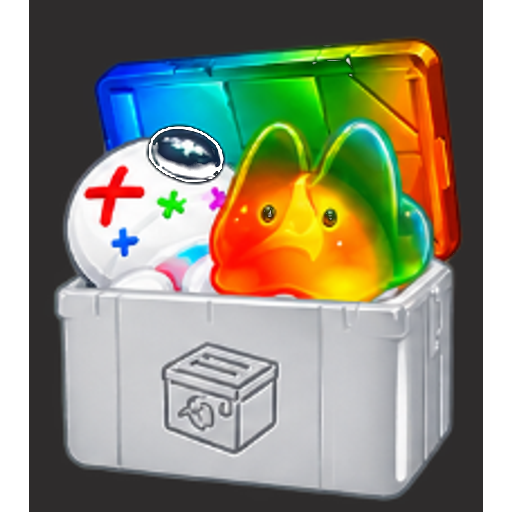
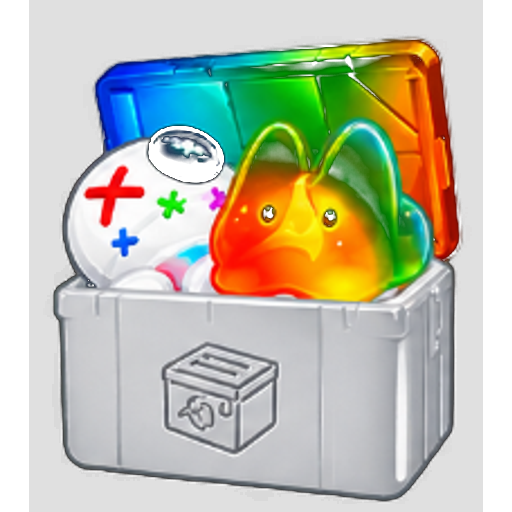
fix: stronger bg removal on case images, CSS background fix

diff --git a/split_cases.js b/split_cases.js
@@ -6,12 +6,11 @@ const path = require('path');
   const dir = path.join('C:\\Users\\PC\\Downloads', 'для кейсов');
   const files = fs.readdirSync(dir)
     .filter(f => f.endsWith('.png'))
-    .sort()
-    .slice(0, 8);
+    .sort();
   
   const ids = ['star', 'summer', 'rgb', 'regular', 'farm', 'flex', 'vision', 'fresh'];
   
-  for (let i = 0; i < 8; i++) {
+  for (let i = 0; i < ids.length; i++) {
     const src = path.join(dir, files[i]);
     const id = ids[i];
     
@@ -24,7 +23,6 @@ const path = require('path');
     const { data, info } = buf;
     const ch = info.channels;
     
-    // Sample corners for bg
     const sample = (x, y) => {
       const idx = (y * info.width + x) * ch;
       return [data[idx], data[idx+1], data[idx+2]];
@@ -35,8 +33,8 @@ const path = require('path');
     const bgB = Math.round(corners.reduce((s,c) => s+c[2], 0) / corners.length);
     console.log(`${files[i]} -> ${id}: bg rgb(${bgR},${bgG},${bgB})`);
     
-    const threshold = 40;
-    const edgeSoftness = 30;
+    const threshold = 70;
+    const edgeSoftness = 50;
     
     for (let p = 0; p < data.length; p += ch) {
       const dr = data[p] - bgR;

diff --git a/miniapp/css/style.css b/miniapp/css/style.css
@@ -50,7 +50,7 @@ body{font-family:-apple-system,BlinkMacSystemFont,'SF Pro','Segoe UI',sans-serif
 /* CASES */
 .case-card{background:var(--bg2);border-radius:var(--radius);display:flex;flex-direction:column;overflow:hidden;border:1px solid rgba(234,179,8,.08);cursor:pointer;transition:.15s;box-shadow:0 2px 8px rgba(0,0,0,.15)}
 .case-card:active{transform:scale(.96);box-shadow:0 1px 4px rgba(0,0,0,.3);border-color:rgba(234,179,8,.3)}
-.case-img-wrap{width:100%;padding-top:100%;position:relative;overflow:hidden;background:var(--bg3)}
+.case-img-wrap{width:100%;padding-top:100%;position:relative;overflow:hidden;background:var(--bg2)}
 .case-img-wrap img{position:absolute;top:0;left:0;width:100%;height:100%;object-fit:contain;animation:caseBounce 2s ease-in-out infinite alternate}
 @keyframes caseBounce{0%{transform:translateY(0)}100%{transform:translateY(-4px)}}
 .case-fallback{position:absolute;top:0;left:0;width:100%;height:100%;display:flex;align-items:center;justify-content:center;font-size:48px}
